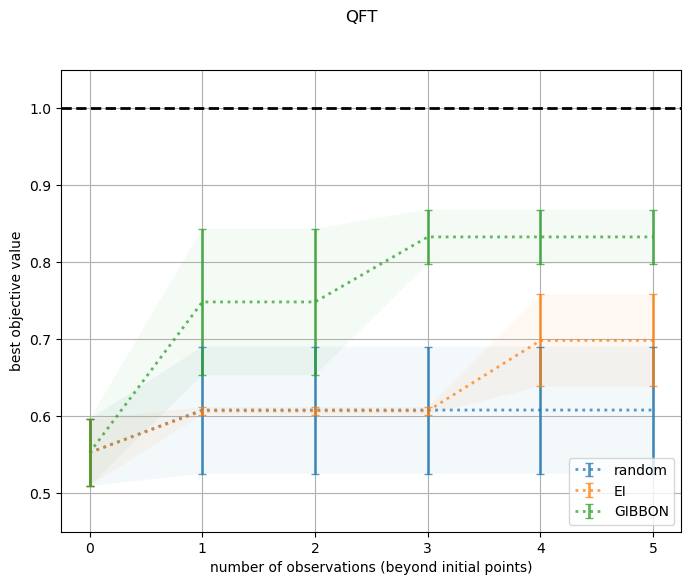
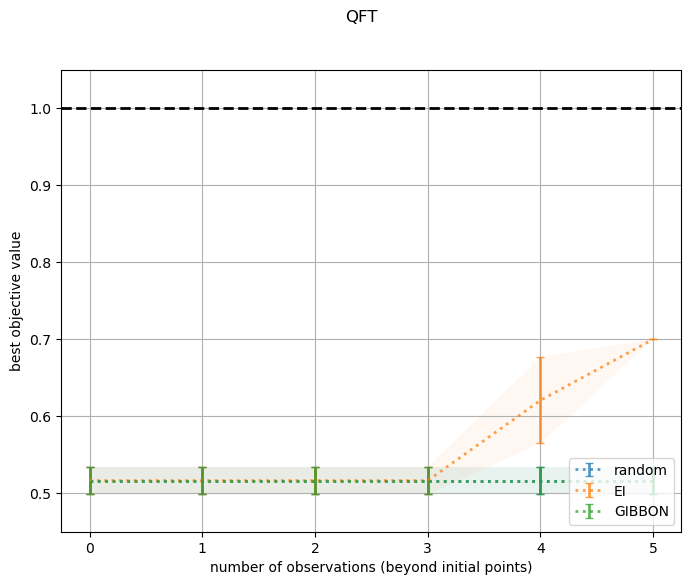
optimize acqf

diff --git a/src/main.py b/src/main.py
@@ -11,12 +11,17 @@ from botorch.models import SingleTaskGP
 
 from botorch import fit_gpytorch_model
 import botorch.optim.fit
+from botorch.optim import optimize_acqf
+from botorch.optim.initializers import initialize_q_batch_nonneg
+from botorch.generation import get_best_candidates, gen_candidates_torch
+from botorch.optim import gen_batch_initial_conditions
+
 
 from botorch.acquisition.monte_carlo import qExpectedImprovement, qUpperConfidenceBound
 from botorch.acquisition import ExpectedImprovement, UpperConfidenceBound
 from botorch.acquisition.max_value_entropy_search import qLowerBoundMaxValueEntropy
 
-from botorch.sampling.samplers import SobolQMCNormalSampler
+from botorch.sampling.samplers import SobolQMCNormalSampler, IIDNormalSampler
 from botorch.exceptions import BadInitialCandidatesWarning
 
 from botorch.utils.transforms import standardize, normalize, unnormalize
@@ -553,37 +558,101 @@ class QNN_BO():
         return mll, model
 
     def lbfgsb_optimize_acqf(self, acq_func, bounds):
-        def neg_acq_func(x):
-            X = torch.from_numpy(x).to(device=self.device, dtype=self.dtype).unsqueeze(-2)
-            Y = -acq_func(X)
-            y = Y.view(-1).double().cpu().detach().numpy()
-            return y
+        # def neg_acq_func(x):
+        #     X = torch.from_numpy(x).to(device=self.device, dtype=self.dtype).unsqueeze(-2)
+        #     Y = -acq_func(X)
+        #     print(Y)
+        #     y = Y.view(-1).double().cpu().detach().numpy()
+        #     return y
+        #
+        # candidates = torch.empty(size=(self.BATCH_SIZE, self.encoding_length), device=self.device, dtype=self.dtype)
+        # bounds0 = bounds[0].cpu().detach().numpy()
+        # bounds1 = bounds[1].cpu().detach().numpy()
+        #
+        # for i in range(self.BATCH_SIZE):
+        #     # get initial condition for L-BFGS-B in numpy form
+        #     # note that L-BFGS-B expects a different shape (no explicit q-batch dimension)
+        #     x0 = np.random.rand(self.encoding_length).clip(bounds0, bounds1)
+        #     print(x0)
+        #     res = minimize(fun=neg_acq_func, x0=x0, method='L-BFGS-B', bounds=np.array(list(zip(bounds0, bounds1))))
+        #     candidates[i] = torch.from_numpy(res.x).to(candidates)
+        #     print(candidates[i])
+        # return candidates
 
-        candidates = torch.empty(size=(self.BATCH_SIZE, self.encoding_length), device=self.device, dtype=self.dtype)
-        bounds0 = bounds[0].cpu().detach().numpy()
-        bounds1 = bounds[1].cpu().detach().numpy()
 
-        for i in range(self.BATCH_SIZE):
-            # get initial condition for L-BFGS-B in numpy form
-            # note that L-BFGS-B expects a different shape (no explicit q-batch dimension)
-            x0 = np.random.rand(self.encoding_length).clip(bounds0, bounds1)
-            breakpoint()
-            res = minimize(fun=neg_acq_func, x0=x0, method='L-BFGS-B', bounds=np.array(list(zip(bounds0, bounds1))))
-            breakpoint()
-            candidates[i] = torch.from_numpy(res.x).to(candidates)
-        return candidates
+        # ----------------------
+        #candidate = torch.empty(size=(self.BATCH_SIZE, self.encoding_length), device=self.device, dtype=self.dtype)
+        # min_loss = 1000
+        # for i in range(20):
+        #     x0 = bounds[0] + (bounds[1] - bounds[0]) * torch.rand(self.BATCH_SIZE, self.encoding_length, device=self.device, dtype=self.dtype)
+        #     x0.requires_grad_()
+        #     optimizer = torch.optim.Adam([x0])
+        #     x0_init = x0.clone()
+        #     print(x0_init)
+        #     for turn in range(75):
+        #         optimizer.zero_grad()
+        #         losses = - acq_func(x0)
+        #         loss = losses.sum()
+        #         print(loss)
+        #         loss.backward()
+        #         optimizer.step()
+        #         #x0.data.clip(bounds[0], bounds[1])
+        #         #print(loss, x0)
+        #
+        #     print((x0-x0_init).norm)
+        #     print(loss)
+        #     if loss < min_loss:
+        #         candidate = x0
+        #         min_loss = loss
+        # return candidate
+
+
+        # ---------------------
+        # generate a large number of random q-batches
+        num_inits = 5
+        Xraw = bounds[0] + (bounds[1] - bounds[0]) * torch.rand(20*num_inits,self.BATCH_SIZE, self.encoding_length)
+        Yraw = acq_func(Xraw)  # evaluate the acquisition function on these q-batches
+
+        # apply the heuristic for sampling promising initial conditions
+        X = initialize_q_batch_nonneg(Xraw, Yraw, num_inits)
+        print(Xraw.shape, Yraw.shape, X.shape)
+        # we'll want gradients for the input
+
+        X.requires_grad_(True)
+
+        optimizer = torch.optim.Adam([X], lr=0.1)
+
+        # run a basic optimization loop
+        for i in range(75):
+            optimizer.zero_grad()
+            # this performs batch evaluation, so this is an N-dim tensor
+            losses = - acq_func(X)  # torch.optim minimizes
+            loss = losses.sum()
+            loss.backward()  # perform backward pass
+            optimizer.step()  # take a step
+            print(X.is_leaf, X.grad)
+            print(loss)
+
+            # clamp values to the feasible set
+            for j, (lb, ub) in enumerate(zip(*bounds)):
+                X.data[..., j].clamp_(lb, ub)  # need to do this on the data not X itself
+            # store the optimization trajecatory
+
+        return X[0].detach().clone()
+
+
 
     ## Helper function that performs essential BO steps
-    def optimize_acqf_and_get_observation(self, acq_func, bounds):
+    def optimize_acqf_and_get_observation(self, model, acq_func, bounds):
         """Optimizes the acquisition function, and returns a new candidate and a noisy observation."""
         # optimize
         candidates = self.lbfgsb_optimize_acqf(acq_func=acq_func, bounds=bounds)
 
+        #breakpoint()
+
         # observe new values
         new_x = unnormalize(candidates, bounds=bounds)
-
         train_obj = self.obj_func(X=new_x)
-        #train_obj = torch.as_tensor(train_obj, device=self.device, dtype=self.dtype).unsqueeze(-1)
 
         return new_x, train_obj
 
@@ -635,11 +704,28 @@ class QNN_BO():
         for iteration in range(1, self.N_BATCH + 1):
             print('iteration: ', iteration)
 
+            # print('Model parameters BEFORE fitting:',  model.likelihood.noise, model.covar_module.alpha, model.covar_module.alphanorm, '\n',
+            #       model.covar_module.beta,'\n', model.covar_module.betanorm)
+            # for name, param in model.named_parameters():
+            #     print(name, param)
+
+            if torch_optimizer:
+                fit_gpytorch_model(mll=mll, optimizer=botorch.optim.fit.fit_gpytorch_torch, max_retries=10)
+            else:
+                fit_gpytorch_model(mll=mll, max_retries=10)
+
+            # print('Model parameters AFTER fitting:', model.likelihood.noise, model.covar_module.alpha, model.covar_module.alphanorm, '\n',
+            #       model.covar_module.beta,'\n', model.covar_module.betanorm)
+            # for name, param in model.named_parameters():
+            #     print(name, param)
+
             if acqf_choice == 'qEI':
                 qmc_sampler = SobolQMCNormalSampler(num_samples=self.MC_SAMPLES)
+                #qmc_sampler = IIDNormalSampler(num_samples=100, resample=True)
                 acqf = qExpectedImprovement(
                     model=model,
-                    best_f=standardize(train_obj).max(),
+                    #best_f=standardize(train_obj).max(),
+                    best_f = train_obj.max(),
                     sampler=qmc_sampler
                 )
             elif acqf_choice == 'EI':
@@ -673,25 +759,8 @@ class QNN_BO():
 
             else: #optimize and get new observation
 
-
-                # print('Model parameters BEFORE fitting:',  model.likelihood.noise, model.covar_module.alpha, model.covar_module.alphanorm, '\n',
-                #       model.covar_module.beta,'\n', model.covar_module.betanorm)
-                # for name, param in model.named_parameters():
-                #     print(name, param)
-
-                if torch_optimizer:
-                    fit_gpytorch_model(mll=mll, optimizer=botorch.optim.fit.fit_gpytorch_torch, max_retries=10)
-                else:
-                    fit_gpytorch_model(mll=mll, max_retries=10)
-
-
-                # print('Model parameters AFTER fitting:', model.likelihood.noise, model.covar_module.alpha, model.covar_module.alphanorm, '\n',
-                #       model.covar_module.beta,'\n', model.covar_module.betanorm)
-                # for name, param in model.named_parameters():
-                #     print(name, param)
-
                 print('optimize acquisition function')
-                new_x, new_obj = self.optimize_acqf_and_get_observation(acq_func=acqf, bounds=bounds)
+                new_x, new_obj = self.optimize_acqf_and_get_observation(model=model, acq_func=acqf, bounds=bounds)
                 #print("New candidates", new_obj.shape)
 
                 # update training points
@@ -881,7 +950,7 @@ if __name__ == '__main__':
     bounds = torch.tensor([[0.] * encoding_length, [1.0] * encoding_length], device=device, dtype=dtype)
 
 
-    acqf_choices = ['random', 'EI', 'GIBBON']
+    acqf_choices = ['qEI', 'GIBBON']
     optimizer = 'torch' ## 'torch' or 'scipy'
 
     list_of_best_observed_x_all, list_of_best_observed_value_all = qnnbo.optimize(bounds=bounds, acqf_choices=acqf_choices, num_init_points=num_init_points, optimizer=optimizer)
